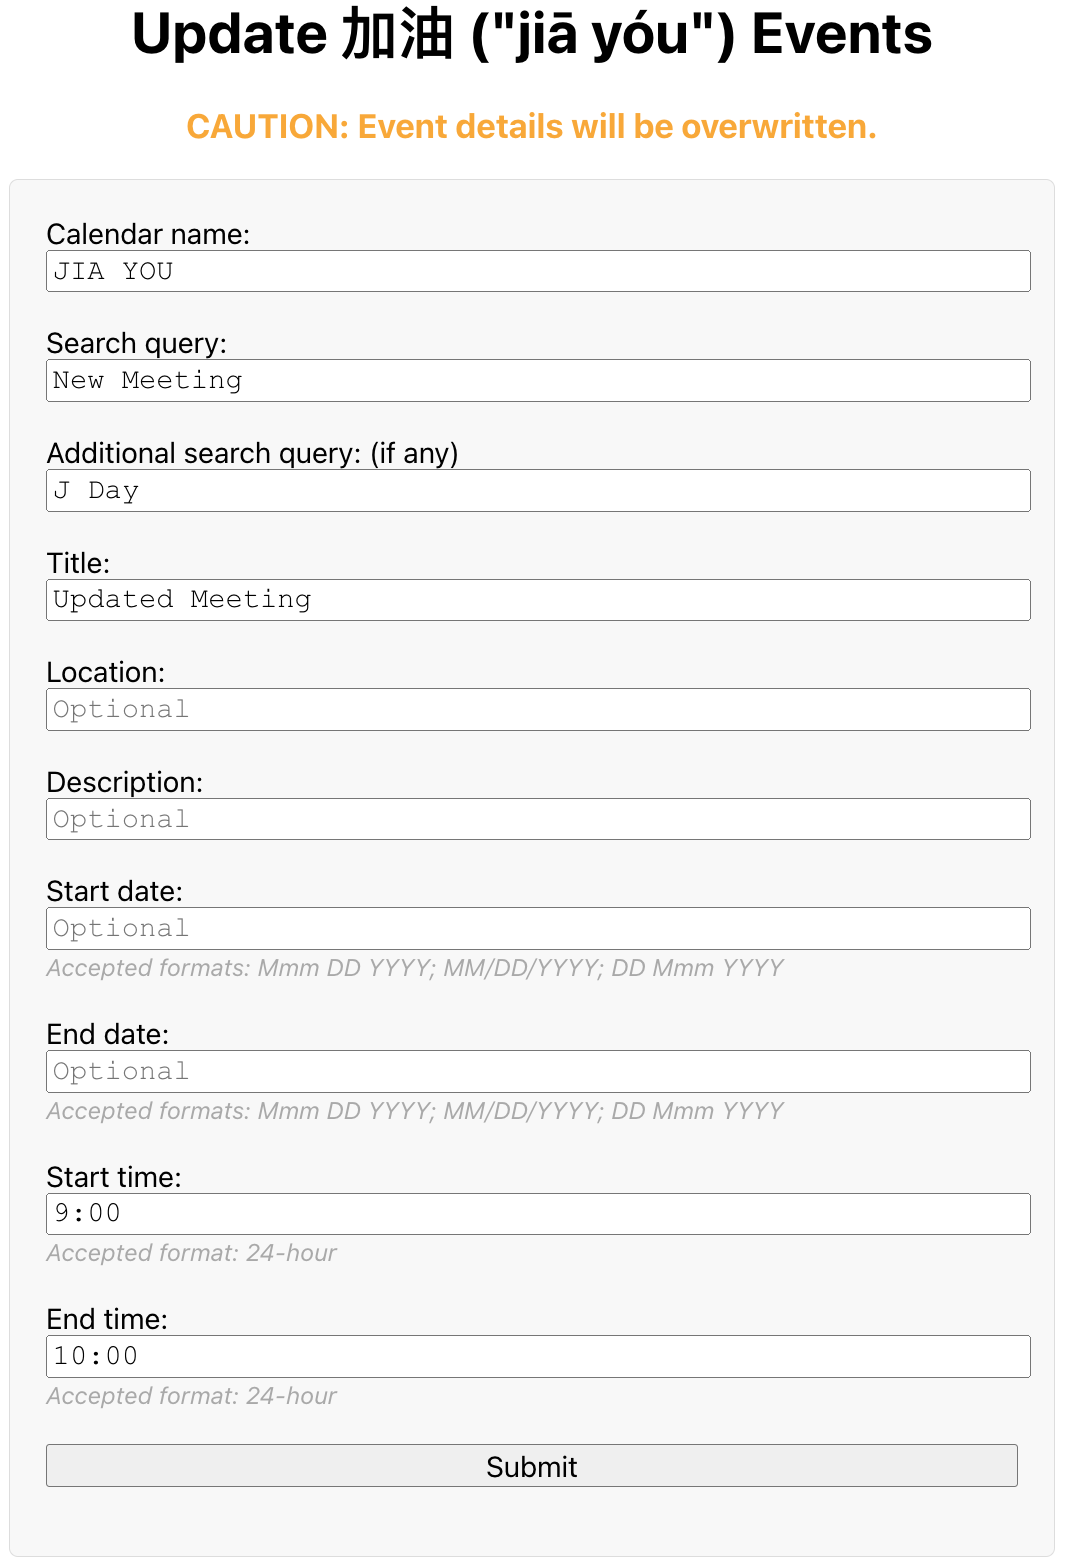
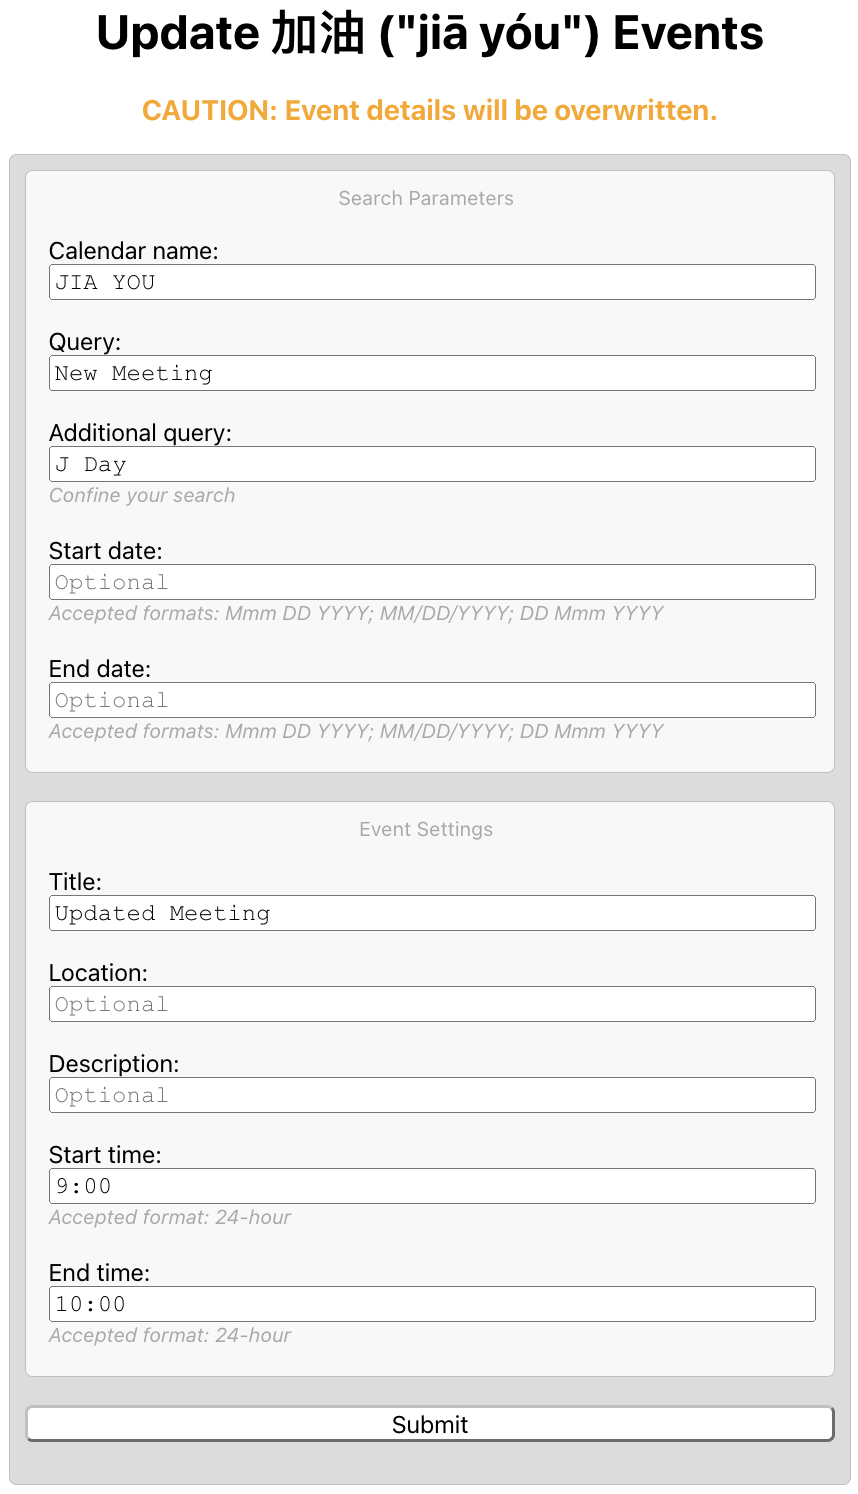
added clarity

diff --git a/Index.html b/Index.html
@@ -7,10 +7,10 @@
       form {
         max-width: 540px;
         margin: 0 auto;
-        padding: 20px;
-        border: 1px solid #ddd;
+        padding: 10px;
+        border: 1px solid Silver;
         border-radius: 5px;
-        background-color: #F8F8F8;
+        background-color: Gainsboro;
       }
       label, select, input {
         display: block;
@@ -31,6 +31,25 @@
       }
       div {
         text-align: center;
+        color: #000;
+      }
+      div[id="search"], div[id="settings"] {
+        text-align: left;
+        padding-top: 10px;
+        padding-left: 15px;
+        padding-right: 20px;
+        border: 1px solid Silver;
+        border-radius: 5px;
+        background-color: #F8F8F8;
+      }
+      text[id="search"], text[id="settings"] {
+        font-style: normal;
+      }
+      input[type="submit"] {
+        background-color: white;
+        border-color: Silver;
+        color: black;
+        border-radius: 5px;
       }
     </style>
   </head>
@@ -38,60 +57,80 @@
     <h1><center>Update 加油 ("jiā yóu") Events</center></h1>
     <h3><center><font style="color: orange;">CAUTION: Event details will be overwritten.</font></center></h3>
     <form id="calendarForm">
-      <label for="calendarName">Calendar name:</label>
-      <input type="text" id="calendarName" name="calendarName" value="JIA YOU" required>
-      <!-- Must name it differently from the owner name -->
+
+      <div id="search">
+
+        <text id="search"><center>Search Parameters</center></text>
+        </br>
+
+        <label for="calendarName">Calendar name:</label>
+        <input type="text" id="calendarName" name="calendarName" value="JIA YOU" required>
+        <!-- Must name it differently from the owner name -->
+        </br>
+
+        <label for="query">Query:</label>
+        <input type="text" id="query" name="query" value="New Meeting" required>
+        <!-- Query ignores any extra spacing -->
+        <!-- prefilled for clarity -->
+        </br>
+
+        <label for="queryAdd">Additional query:</label>
+        <input type="text" id="queryAdd" name="queryAdd" value="J Day" placeholder="Optional">
+        <text>Confine your search</text>
+        <!-- Query ignores any extra spacing -->
+        <!-- Input query to confine search -->
+        <!-- prefilled for clarity -->
+        </br></br>
+
+        <label for="start">Start date:</label>
+        <input type="text" id="start" name="start" placeholder="Optional"></input>
+        <!-- Confine date range -->
+        <text>Accepted formats: Mmm DD YYYY; MM/DD/YYYY; DD Mmm YYYY</text>
+        </br></br>
+
+        <label for="end">End date:</label>
+        <input type="text" id="end" name="end" placeholder="Optional"></input>
+        <!-- Confine date range -->
+        <text>Accepted formats: Mmm DD YYYY; MM/DD/YYYY; DD Mmm YYYY</text>
+        </br></br>
+
+      </div>
+
       </br>
 
-      <label for="query">Search query:</label>
-      <input type="text" id="query" name="query" value="New Meeting" required>
-      <!-- Query ignores any extra spacing -->
-      <!-- prefilled for clarity -->
+      <div id="settings">
+
+        <text id="settings"><center>Event Settings</center></text>
+        </br>
+
+        <label for="title">Title:</label>
+        <input type="text" id="title" name="title" value="Updated Meeting" required>
+        <!-- prefilled for convenience -->
+        </br>
+
+        <label for="location">Location:</label>
+        <input type="text" id="location" name="location" placeholder="Optional">
+        </br>
+
+        <label for="description">Description:</label>
+        <input type="text" id="description" name="description"  placeholder="Optional">
+        </br>
+
+        <label for="startTime">Start time:</label>
+        <input type="text" id="startTime" name="startTime" value="9:00" required></input>
+        <!-- prefilled for clarity -->
+        <text>Accepted format: 24-hour</text>
+        </br></br>
+
+        <label for="endTime">End time:</label>
+        <input type="text" id="endTime" name="endTime" value="10:00" required></input>
+        <!-- prefilled for clarity -->
+        <text>Accepted format: 24-hour</text>
+        </br></br>
+
+      </div>
+
       </br>
-
-      <label for="queryAdd">Additional search query: (if any)</label>
-      <input type="text" id="queryAdd" name="queryAdd" value="J Day" placeholder="Optional">
-      <!-- Query ignores any extra spacing -->
-      <!-- Input query to confine search -->
-      <!-- prefilled for clarity -->
-      </br>
-
-      <label for="title">Title:</label>
-      <input type="text" id="title" name="title" value="Updated Meeting" required>
-      <!-- prefilled for convenience -->
-      </br>
-
-      <label for="location">Location:</label>
-      <input type="text" id="location" name="location" placeholder="Optional">
-      </br>
-
-      <label for="description">Description:</label>
-      <input type="text" id="description" name="description"  placeholder="Optional">
-      </br>
-
-      <label for="start">Start date:</label>
-      <input type="text" id="start" name="start" placeholder="Optional"></input>
-      <!-- Confine date range -->
-      <text>Accepted formats: Mmm DD YYYY; MM/DD/YYYY; DD Mmm YYYY</text>
-      </br></br>
-
-      <label for="end">End date:</label>
-      <input type="text" id="end" name="end" placeholder="Optional"></input>
-      <!-- Confine date range -->
-      <text>Accepted formats: Mmm DD YYYY; MM/DD/YYYY; DD Mmm YYYY</text>
-      </br></br>
-
-      <label for="startTime">Start time:</label>
-      <input type="text" id="startTime" name="startTime" value="9:00" required></input>
-      <!-- prefilled for clarity -->
-      <text>Accepted format: 24-hour</text>
-      </br></br>
-
-      <label for="endTime">End time:</label>
-      <input type="text" id="endTime" name="endTime" value="10:00" required></input>
-      <!-- prefilled for clarity -->
-      <text>Accepted format: 24-hour</text>
-      </br></br>
 
       <input type="submit" value="Submit">
       <div id="wait">&nbsp;</div>
@@ -105,18 +144,20 @@
         var calendarName = document.getElementById('calendarName').value;
         var query = document.getElementById('query').value;
         var queryAdd = document.getElementById('queryAdd').value;
+        var start = document.getElementById('start').value;
+        var end = document.getElementById('end').value;
+
         var title = document.getElementById('title').value;
         var location = document.getElementById('location').value;
         var description = document.getElementById('description').value;
-        var start = document.getElementById('start').value;
-        var end = document.getElementById('end').value;
         var startTime = document.getElementById('startTime').value;
         var endTime = document.getElementById('endTime').value;
+        
         document.getElementById("wait").innerHTML = "Please wait...";
 
         google.script.run.withSuccessHandler(function(response) {
           document.getElementById('wait').innerHTML = response; // Displays a success message when completed
-        }).updateEvents(calendarName, query, queryAdd, title, location, description, start, end, startTime, endTime);
+        }).updateEvents(calendarName, query, queryAdd, start, end, title, location, description, startTime, endTime);
       });
     </script>
   </body>
